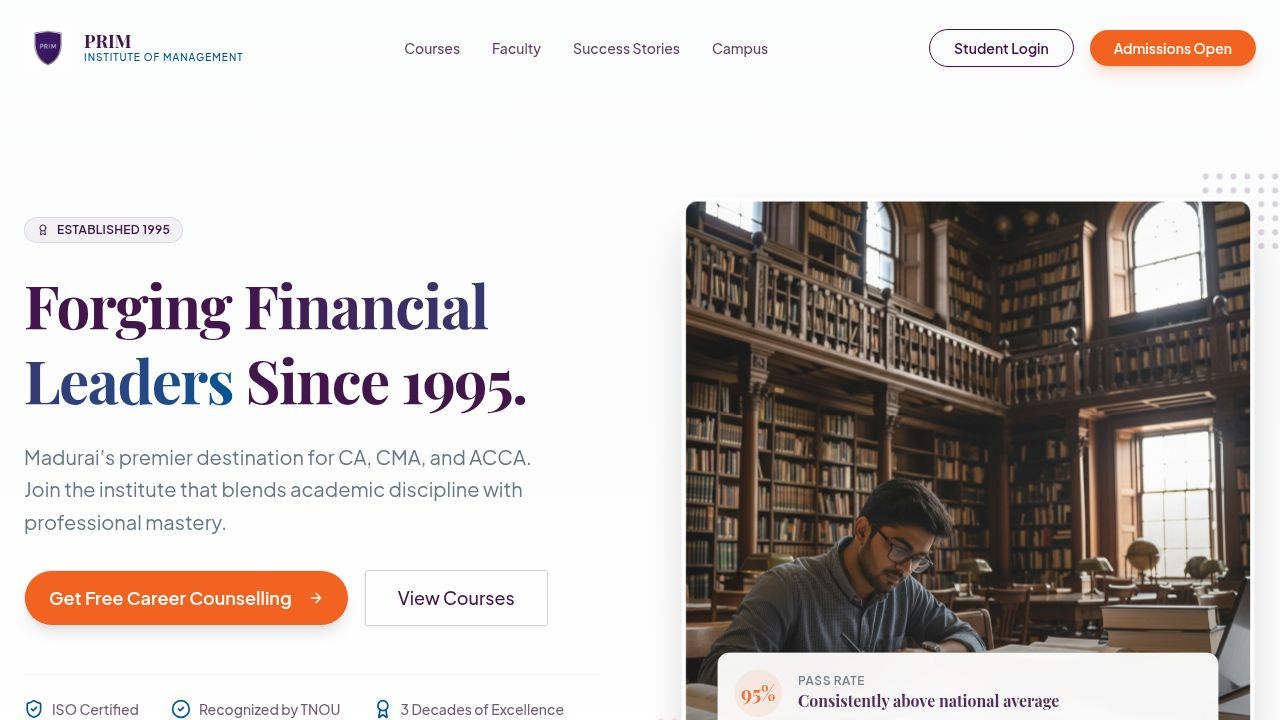
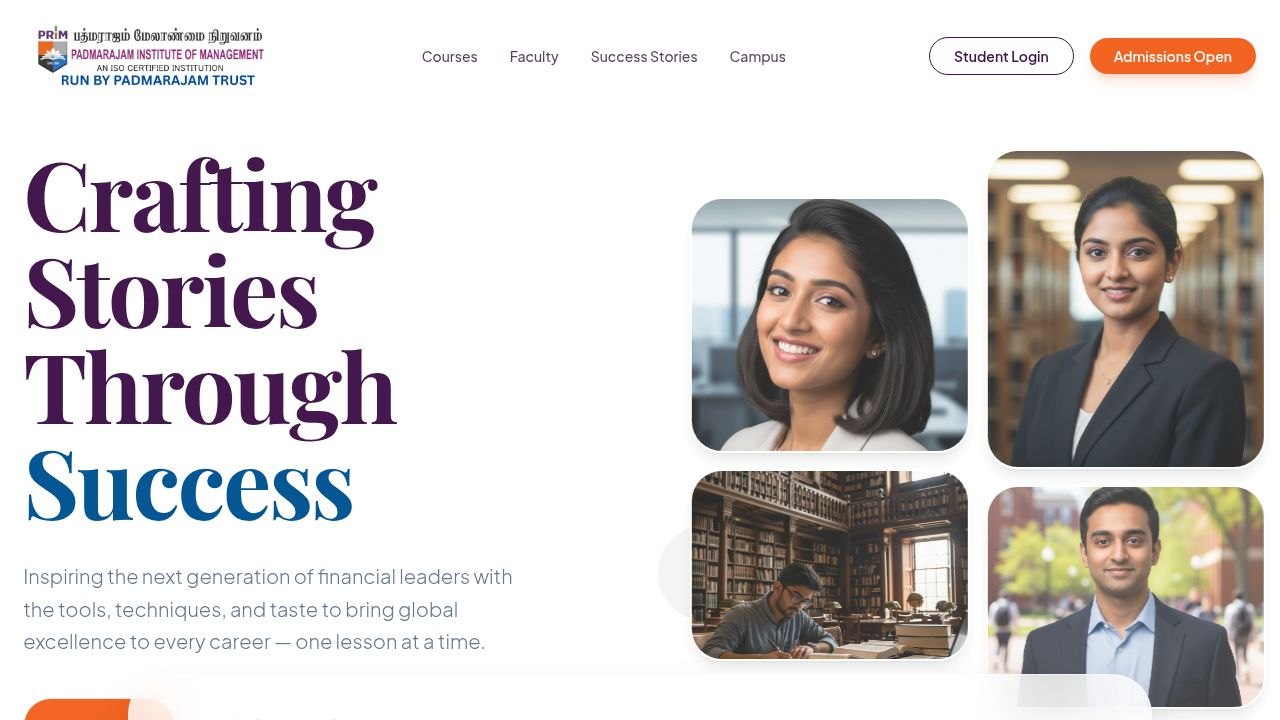
Update hero section layout and content for a magazine-style look
Redesign the Hero component with a mosaic image grid, updated typography, and a floating bottom sheet element to match the "Artico" reference model.

Replit-Commit-Author: Agent
Replit-Commit-Session-Id: 6d8ca7ba-3ace-462c-acbb-529b8cb235c9
Replit-Commit-Checkpoint-Type: full_checkpoint
Replit-Commit-Event-Id: ca783c22-4fa6-4bfa-bdf5-67770d445aaf
Replit-Commit-Screenshot-Url: https://storage.googleapis.com/screenshot-production-us-central1/a9107ca7-2a67-4885-a2e8-d1a3a4178f93/6d8ca7ba-3ace-462c-acbb-529b8cb235c9/QAPXPd7
Replit-Helium-Checkpoint-Created: true

diff --git a/client/src/components/home/Hero.tsx b/client/src/components/home/Hero.tsx
@@ -1,109 +1,110 @@
 import { motion } from "framer-motion";
 import { Button } from "@/components/ui/button";
-import { ArrowRight, Award, CheckCircle2, ShieldCheck } from "lucide-react";
+import { ArrowRight, Play, CheckCircle2 } from "lucide-react";
 import heroImage from "@assets/generated_images/student_studying_in_a_classical_library.png";
+import student1 from "@assets/generated_images/portrait_of_a_female_ca_student.png";
+import student2 from "@assets/generated_images/portrait_of_a_male_cma_student.png";
+import student3 from "@assets/generated_images/portrait_of_a_female_acca_student.png";
 
 export function Hero() {
   return (
-    <section className="relative pt-32 pb-20 lg:pt-32 lg:pb-32 overflow-hidden bg-background min-h-[90vh] flex items-center">
-      {/* Background decorative elements - More subtle and premium */}
-      <div className="absolute top-0 right-0 w-[800px] h-[800px] bg-brand-blue/5 blur-[150px] -z-10 rounded-full translate-x-1/3 -translate-y-1/4" />
-      <div className="absolute bottom-0 left-0 w-[600px] h-[600px] bg-brand-purple/5 blur-[120px] -z-10 rounded-full -translate-x-1/4 translate-y-1/4" />
-
-      <div className="container mx-auto px-4 md:px-6">
-        <div className="flex flex-col lg:flex-row gap-8 lg:gap-16 items-center">
+    <section className="relative pt-32 pb-24 lg:pt-36 lg:pb-32 overflow-hidden bg-background min-h-[90vh] flex flex-col justify-center">
+      
+      <div className="container mx-auto px-4 md:px-6 relative z-10">
+        <div className="flex flex-col lg:flex-row gap-12 lg:gap-20 items-center">
           
-          {/* Text Content - More Magazine Style Typography */}
+          {/* Text Content */}
           <motion.div 
-            initial={{ opacity: 0, y: 40 }}
-            animate={{ opacity: 1, y: 0 }}
+            initial={{ opacity: 0, x: -30 }}
+            animate={{ opacity: 1, x: 0 }}
             transition={{ duration: 0.8, ease: "easeOut" }}
-            className="w-full lg:w-[55%] z-10"
+            className="w-full lg:w-1/2"
           >
-            <div className="inline-flex items-center gap-3 mb-8">
-              <div className="h-[1px] w-12 bg-brand-purple/30"></div>
-              <span className="text-brand-purple font-semibold tracking-[0.2em] text-xs uppercase">Established 1995</span>
-            </div>
-            
-            <h1 className="font-serif text-6xl sm:text-7xl lg:text-8xl font-bold leading-[0.9] text-brand-purple mb-8 tracking-tight">
-              Shaping <br/>
-              <span className="italic font-light text-brand-blue">Financial</span> <br/>
-              Leaders.
+            <h1 className="font-serif text-6xl md:text-7xl lg:text-8xl font-bold leading-[1.0] text-brand-purple mb-8 tracking-tight">
+              Crafting <br/>
+              Stories <br/>
+              Through <span className="text-brand-blue">Success</span>
             </h1>
             
-            <p className="text-xl text-muted-foreground mb-10 leading-relaxed max-w-lg font-light border-l-2 border-brand-orange/30 pl-6">
-              Madurai’s premier destination for CA, CMA, and ACCA. Where academic discipline meets professional mastery.
+            <p className="text-xl text-muted-foreground mb-10 leading-relaxed max-w-lg font-light">
+              Inspiring the next generation of financial leaders with the tools, techniques, and taste to bring global excellence to every career — one lesson at a time.
             </p>
             
-            <div className="flex flex-col sm:flex-row gap-5 items-start">
-              <Button size="lg" className="btn-primary-action bg-brand-orange hover:bg-brand-orange/90 text-white text-lg px-10 h-16 rounded-full shadow-xl shadow-brand-orange/20 hover:shadow-2xl hover:shadow-brand-orange/30 transition-all duration-300">
-                Get Free Counselling
-                <ArrowRight className="ml-2 h-5 w-5" />
+            <div className="flex flex-wrap gap-5 items-center">
+              <Button size="lg" className="btn-primary-action bg-brand-purple hover:bg-brand-purple/90 text-white text-lg px-8 h-14 rounded-full shadow-lg transition-all duration-300">
+                Get Started
               </Button>
-              <Button size="lg" variant="ghost" className="h-16 px-8 text-lg text-brand-purple hover:bg-brand-purple/5 rounded-full underline-offset-4 hover:underline">
-                Explore Courses
+              <Button size="lg" variant="outline" className="h-14 px-8 text-lg border-border text-foreground hover:bg-secondary/50 rounded-full flex items-center gap-2">
+                <Play className="h-4 w-4 fill-current" /> Success Story
               </Button>
             </div>
-
-             {/* Stats floating below text */}
-             <div className="mt-16 grid grid-cols-3 gap-8 border-t border-brand-purple/10 pt-8 max-w-md">
-                <div>
-                  <h4 className="text-3xl font-bold text-brand-purple font-serif">30+</h4>
-                  <p className="text-xs text-muted-foreground uppercase tracking-wider mt-1">Years</p>
-                </div>
-                <div>
-                  <h4 className="text-3xl font-bold text-brand-purple font-serif">95%</h4>
-                  <p className="text-xs text-muted-foreground uppercase tracking-wider mt-1">Pass Rate</p>
-                </div>
-                <div>
-                  <h4 className="text-3xl font-bold text-brand-purple font-serif">10k+</h4>
-                  <p className="text-xs text-muted-foreground uppercase tracking-wider mt-1">Alumni</p>
-                </div>
-             </div>
           </motion.div>
 
-          {/* Image Content - Asymmetric & Overlapping */}
+          {/* Image Grid Content */}
           <motion.div 
             initial={{ opacity: 0, x: 50 }}
             animate={{ opacity: 1, x: 0 }}
             transition={{ duration: 0.8, delay: 0.2, ease: "easeOut" }}
-            className="w-full lg:w-[45%] relative h-[600px] hidden lg:block"
+            className="w-full lg:w-1/2 relative"
           >
-            {/* Main tall image */}
-            <div className="absolute right-0 top-0 w-[85%] h-full rounded-[2rem] overflow-hidden shadow-2xl shadow-brand-purple/20">
-               <div className="absolute inset-0 bg-brand-purple/10 mix-blend-multiply z-10"></div>
-               <img 
-                src={heroImage} 
-                alt="Student studying" 
-                className="w-full h-full object-cover"
-              />
-            </div>
-
-            {/* Floating overlap card */}
-            <motion.div 
-              initial={{ y: 20, opacity: 0 }}
-              animate={{ y: 0, opacity: 1 }}
-              transition={{ delay: 0.6, duration: 0.8 }}
-              className="absolute bottom-12 left-0 bg-white p-8 rounded-2xl shadow-xl max-w-xs border border-brand-purple/5 z-20"
-            >
-              <div className="flex items-center gap-3 mb-4">
-                <ShieldCheck className="h-8 w-8 text-brand-blue" />
-                <span className="font-serif font-bold text-lg text-brand-purple leading-tight">ISO Certified<br/>Excellence</span>
+            <div className="grid grid-cols-2 gap-4 h-[600px]">
+              {/* Column 1 */}
+              <div className="flex flex-col gap-4 pt-12">
+                <div className="h-64 w-full rounded-[2rem] overflow-hidden shadow-lg border-2 border-white relative group">
+                  <img src={student1} alt="Student" className="w-full h-full object-cover transition-transform duration-700 group-hover:scale-110" />
+                </div>
+                <div className="h-48 w-full rounded-[2rem] overflow-hidden shadow-lg border-2 border-white relative group">
+                   <img src={heroImage} alt="Library" className="w-full h-full object-cover transition-transform duration-700 group-hover:scale-110" />
+                </div>
+                 {/* Floating circular accent */}
+                 <div className="h-24 w-24 rounded-full bg-brand-purple/10 backdrop-blur-md absolute -left-8 bottom-32 -z-10 animate-pulse" />
               </div>
-              <p className="text-sm text-muted-foreground leading-relaxed">
-                Recognized by TNOU and backed by 3 decades of proven academic results.
-              </p>
-            </motion.div>
-            
-            {/* Decorative Circle */}
-            <div className="absolute -top-12 right-12 w-24 h-24 rounded-full border border-brand-orange/30 flex items-center justify-center animate-spin-slow duration-[20s]">
-               <div className="w-2 h-2 bg-brand-orange rounded-full absolute top-0 left-1/2 -translate-x-1/2 -translate-y-1/2"></div>
-            </div>
 
+              {/* Column 2 */}
+              <div className="flex flex-col gap-4">
+                 <div className="h-80 w-full rounded-[2rem] overflow-hidden shadow-lg border-2 border-white relative group">
+                   <img src={student3} alt="Student" className="w-full h-full object-cover transition-transform duration-700 group-hover:scale-110" />
+                 </div>
+                 <div className="h-56 w-full rounded-[2rem] overflow-hidden shadow-lg border-2 border-white relative group bg-brand-orange/10 flex items-center justify-center">
+                    <img src={student2} alt="Student" className="w-full h-full object-cover transition-transform duration-700 group-hover:scale-110 opacity-90" />
+                 </div>
+              </div>
+            </div>
           </motion.div>
           
         </div>
       </div>
+
+      {/* Bottom Floating Stats Section */}
+      <div className="absolute bottom-0 left-0 right-0 h-32 bg-gradient-to-t from-white via-white/80 to-transparent z-20 pointer-events-none" />
+      
+      <div className="container mx-auto px-4 md:px-6 relative z-30 -mt-12 lg:-mt-20">
+         <div className="bg-white/80 backdrop-blur-xl border border-white/50 shadow-2xl rounded-[2.5rem] p-8 md:p-10 flex flex-col md:flex-row justify-between items-center gap-8 max-w-5xl mx-auto">
+            <div className="max-w-md">
+               <h3 className="font-serif font-bold text-2xl text-brand-purple mb-2">Because behind every line,</h3>
+               <p className="text-muted-foreground text-lg">every number, and every success story.</p>
+            </div>
+
+            <div className="flex items-center gap-6">
+               <div className="flex -space-x-4">
+                  <img src={student1} className="w-14 h-14 rounded-full border-4 border-white object-cover" alt="Avatar" />
+                  <img src={student2} className="w-14 h-14 rounded-full border-4 border-white object-cover" alt="Avatar" />
+                  <img src={student3} className="w-14 h-14 rounded-full border-4 border-white object-cover" alt="Avatar" />
+                  <div className="w-14 h-14 rounded-full border-4 border-white bg-brand-orange text-white flex items-center justify-center font-bold text-sm">
+                    10k+
+                  </div>
+               </div>
+               <div>
+                  <div className="flex gap-1 text-yellow-500 mb-1">
+                     <CheckCircle2 className="h-5 w-5 fill-current" />
+                     <span className="font-bold text-brand-purple">Verified Excellence</span>
+                  </div>
+                  <p className="text-xs text-muted-foreground font-medium uppercase tracking-wider">Join the community</p>
+               </div>
+            </div>
+         </div>
+      </div>
+
     </section>
   );
 }
